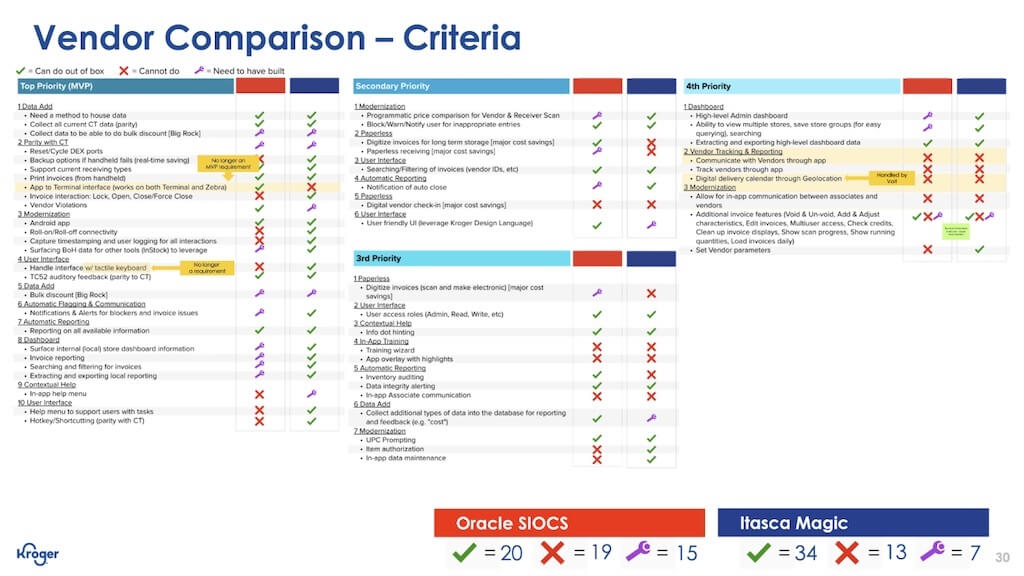
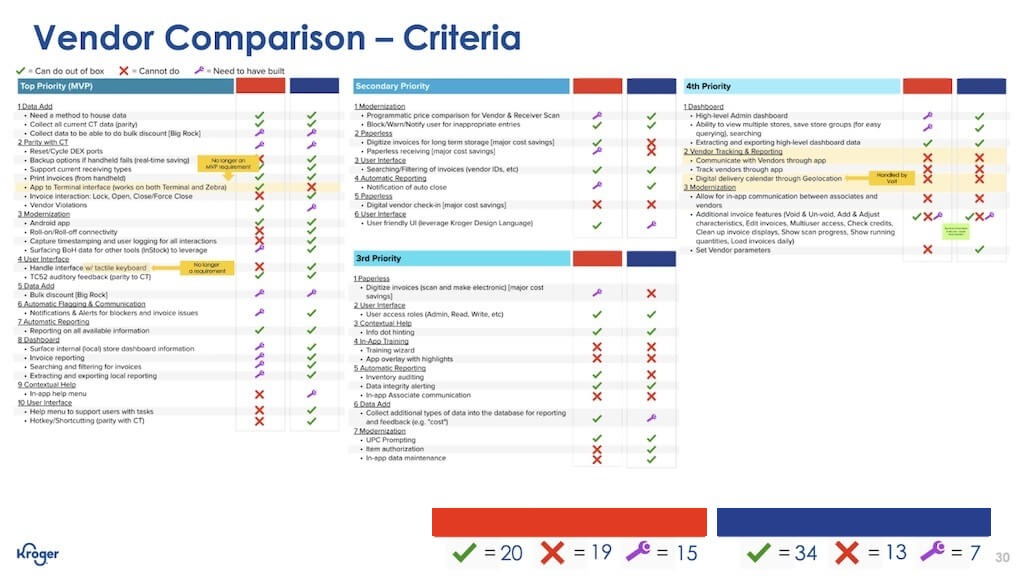
Kroger case study copy fixes, timeline, and vendor-name redaction; small am-ui/CHIRP/ACP copy edits
- Kroger: corrected timeline/confidence narrative, added a project timeline
  component (ported from case-study-narrative), reworked Process/Findings for
  a clearer "why" narrative and personal ownership of the design work, added
  a real product-requirements image and usability-test video, moved images
  to match the sections they support, and redacted vendor names from the
  vendor-comparison image and text per confidentiality preference.
- am-ui: linked first AtoMagic mention to its demo video.
- CHIRP Radio, anonymous-client-portal: small copy corrections.
- Added a root CLAUDE.md with a Ship It Config section (no CI/test suite
  exists for this static Jekyll site; documents the YAML+build gate used).

Claude-Session: https://claude.ai/code/session_01DbjEwkj62CzvrQenzVAbEi

Changed region(s): [[0.4062, 0.875, 0.9688, 0.9375]]

diff --git a/_layouts/case-study-template.html b/_layouts/case-study-template.html
@@ -51,6 +51,12 @@
         <div class="flex-two-col">
           <div class="col-left flex-third">
             <p>{{ page.overview }}</p>
+            {% if page.overview-pull-quote %}
+            <blockquote class="pull-quote">&ldquo;{{ page.overview-pull-quote }}&rdquo;<cite>{{ page.overview-pull-quote-attribution | default: "Ryan Wilson" }}</cite></blockquote>
+            {% endif %}
+            {% if page.overview-para2 %}
+            <p>{{ page.overview-para2 }}</p>
+            {% endif %}
             {% if page.stat-number %}
             <div class="stat-callout"><span class="stat-number">{{ page.stat-number }}</span><span class="stat-label">{{ page.stat-label }}</span></div>
             {% endif %}
@@ -65,6 +71,19 @@
           </div>
         </div>
       </section>
+      {% if page.timeline %}
+      <div class="cs-timeline">
+        <div class="tl-grid" style="grid-template-columns: {% for milestone in page.timeline %}{% assign tl_idx = forloop.index0 | plus: 1 %}{% if forloop.last %}{% assign tl_next = 100 %}{% else %}{% assign tl_next = page.timeline[tl_idx].percent %}{% endif %}{% assign tl_weight = tl_next | minus: milestone.percent %}{% if tl_weight < 1 %}{% assign tl_weight = 1 %}{% endif %}{{ tl_weight }}fr {% endfor %};">
+          {% for milestone in page.timeline %}
+          <div class="tl-point">
+            <span class="tl-marker"></span>
+            <span class="tl-date">{{ milestone.date }}</span>
+            <span class="tl-label">{{ milestone.label }}</span>
+          </div>
+          {% endfor %}
+        </div>
+      </div>
+      {% endif %}
       <section>
         <h2>Approach</h2>
         <h3 class="subsection-title uppercase">Problem Statement</h3>
@@ -246,6 +265,33 @@
           {% if page.process-multistat-01-caption %}<p>{{ page.process-multistat-01-caption }}</p>{% endif %}
         </div>
         {% endif %}
+        {% if page.process-image01 and page.process-image02 and page.process-pair-01-02 %}
+        <div class="cs-figure-row">
+          <figure class="cs-figure-half no-crop">
+            <picture>
+              <source srcset="../../assets/images/portfolio-images/{{ page.process-webpimage01 }}" type="image/webp">
+              <img src="../../assets/images/portfolio-images/{{ page.process-image01 }}" alt="{{ page.process-caption01 }} example image for {{ page.project }}">
+            </picture>
+            <figcaption>{{ page.process-caption01 }}</figcaption>
+          </figure>
+          <figure class="cs-figure-half no-crop">
+            <picture>
+              <source srcset="../../assets/images/portfolio-images/{{ page.process-webpimage02 }}" type="image/webp">
+              <img src="../../assets/images/portfolio-images/{{ page.process-image02 }}" alt="{{ page.process-caption02 }} example image for {{ page.project }}">
+            </picture>
+            <figcaption>{{ page.process-caption02 }}</figcaption>
+          </figure>
+        </div>
+        {% if page.process-image03 %}
+        <figure class="cs-figure-full">
+          <picture>
+            <source srcset="../../assets/images/portfolio-images/{{ page.process-webpimage03 }}" type="image/webp">
+            <img src="../../assets/images/portfolio-images/{{ page.process-image03 }}" alt="{{ page.process-caption03 }} example image for {{ page.project }}">
+          </picture>
+          <figcaption>{{ page.process-caption03 }}</figcaption>
+        </figure>
+        {% endif %}
+        {% else %}
         {% if page.process-image01 %}
         <figure class="cs-figure-full">
           <picture>
@@ -292,6 +338,7 @@
         </figure>
         {% endif %}
         {% endif %}
+        {% endif %}
         {% if page.process-multistat-02 %}
         <div class="single-col">
           <div class="cs-stat-group">
@@ -321,6 +368,12 @@
           <figcaption>{{ page.process-caption05 }}</figcaption>
         </figure>
         {% endif %}
+        {% if page.process-video %}
+        <figure class="cs-figure-full">
+          <iframe src="https://www.youtube.com/embed/{{ page.process-video }}" title="{{ page.process-video-caption }}" frameborder="0" allow="accelerometer; autoplay; clipboard-write; encrypted-media; gyroscope; picture-in-picture; web-share" allowfullscreen></iframe>
+          <figcaption>{{ page.process-video-caption }}</figcaption>
+        </figure>
+        {% endif %}
         {% endunless %}
       </section>
       <section class="solution-section">
@@ -332,6 +385,30 @@
             <p>{{ page.solutions }}</p>
           {% if page.pull-quote %}
             <blockquote class="pull-quote">&ldquo;{{ page.pull-quote }}&rdquo;<cite>{{ page.pull-quote-attribution | default: "Ryan Wilson" }}</cite></blockquote>
+          {% endif %}
+          {% if page.solutions-para2 %}
+            <p>{{ page.solutions-para2 }}</p>
+          {% endif %}
+          {% if page.solutions-continued %}
+            <p>{{ page.solutions-continued }}</p>
+          {% endif %}
+          {% if page.solution-image01 and page.solution-image02 %}
+            <div class="cs-figure-row">
+              <figure class="cs-figure-half">
+                <picture>
+                  <source srcset="../../assets/images/portfolio-images/{{ page.solution-webpimage01 }}" type="image/webp">
+                  <img src="../../assets/images/portfolio-images/{{ page.solution-image01 }}" alt="{{ page.solution-caption01 }} example image for {{ page.project }}">
+                </picture>
+                <figcaption>{{ page.solution-caption01 }}</figcaption>
+              </figure>
+              <figure class="cs-figure-half">
+                <picture>
+                  <source srcset="../../assets/images/portfolio-images/{{ page.solution-webpimage02 }}" type="image/webp">
+                  <img src="../../assets/images/portfolio-images/{{ page.solution-image02 }}" alt="{{ page.solution-caption02 }} example image for {{ page.project }}">
+                </picture>
+                <figcaption>{{ page.solution-caption02 }}</figcaption>
+              </figure>
+            </div>
           {% endif %}
           {% if page.prototype-orientation == 'vertical' %}
             </div>

diff --git a/assets/css/case-brand.css b/assets/css/case-brand.css
@@ -340,6 +340,9 @@
     background-color: #21409A;
     box-shadow: -50vw 0 0 0 #21409A, 50vw 0 0 0 #21409A, -25vw 0 0 0 #21409A, 25vw 0 0 0 #21409A;
   }
+  .tl-marker {
+    border-color: #21409A;
+  }
   section:nth-of-type(2), section:nth-of-type(4) {
     background-color: #f0f6fc;
     padding: 100px 0;

diff --git a/_portfolio/kroger.md b/_portfolio/kroger.md
@@ -17,24 +17,44 @@ previous-cs-link: vehicle-test-floor-discovery
 next-cs-title: Yum! Brands MMT
 next-cs-link: yum
 phases: Discovery
-overview: My focus for this project was to make a recommendation for replacing a piece of 35+-year-old software called ChainTrack. ChainTrack is used across the enterprise for receiving certain types of products through the docks at Kroger stores, a process called Direct Store Delivery, or DSD, where products like Coke, Fritos, and alcohol come into the store. Kroger DSD intakes ~28 Billion dollars of products using this software. <br><br>This was a three-person team, a Product Manager, a Tech Lead, and myself, tasked with researching and understanding enough to recommend building our own or purchasing a replacement product. The research and recommendation work was heavily driven by me.
-stat-number: $28B
-stat-label: Products intake through DSD Receiving, yearly
+overview: My focus for this project was to make a recommendation for replacing a piece of 35+-year-old software called ChainTrack. ChainTrack is used across the enterprise for receiving certain types of products through the docks at Kroger stores, a process called Direct Store Delivery, or DSD, where products like Coke, Fritos, and alcohol come into the store. Kroger DSD intakes ~28 billion dollars of products using this software.
+overview-pull-quote: We've never seen a proposal this thoroughly researched.
+overview-pull-quote-attribution: Panel of Kroger VPs
+overview-para2: This was a three-person team&colon; a Product Manager, a Tech Lead, and myself, tasked with researching and understanding enough to recommend building our own or purchasing a replacement product. I drove the research and recommendation work.
 goals: <ul><li>To understand and document the existing DSD Receiving process and use of the ChainTrack product</li><li>Run observations and workshops with my team, stakeholders, and software vendors to collect information</li><li>To conceptualize what would be needed in a replacement product</li><li>Evaluate competitor products that could function as a replacement</li><li>Create and visualize concepts like feature timelines, product flows, existing state click-through prototypes, and other deliverables to share with others and support a build or buy decision</li><li>Support change management</li></ul>
 role: Product Designer
 scope: Eight weeks (team of three, made up of a Product Manager, a Tech Lead, and myself)
 tools: Axure, Sketch, Documentation
-problemstatement: The problem I needed to solve was how to replace an antiquated piece of technology with something more robust. One of the business requirements was that the replacement product needs to be able to exist on TC-52 Zebra devices so that Kroger is only maintaining a single device type across all stores.<br><br>The next iteration of this product must:<ul><li> Make data more accessible</li><li>Reduce printing and invoice storage costs</li><li>Support DSD Receivers to intake products at a lower cost</li></ul>
+timeline:
+  - date: Week 1
+    label: Kickoff&colon; began researching the DSD process and identifying users
+    percent: 0
+  - date: Week 3
+    label: Reached ~85% confidence in the buy recommendation
+    percent: 29
+  - date: Week 5
+    label: Kept researching, deepening the vendor evaluation and requirements record
+    percent: 57
+  - date: Week 8
+    label: Presented to Kroger VPs, who approved the recommendation before the deck finished
+    percent: 100
+problemstatement: The problem I needed to solve was how to replace an antiquated piece of technology with something more robust. One business requirement was that the replacement product must work on TC-52 Zebra devices so Kroger maintains a single device type across all stores.<br><br>The next iteration of this product must:<ul><li> Make data more accessible</li><li>Reduce printing and invoice storage costs</li><li>Support DSD Receivers to intake products at a lower cost</li></ul>
 methods: <ul><li>Created and maintained a source of truth repository for documentation</li><li>Captured a project glossary</li><li>Created and assessed a survey sent to users, trainers, & managers</li><li>Performed multiple in-store user observations</li><li>Developed personas</li><li>Wrote scenarios and user stories</li></ul>
-process: Going into the project, I had no experience with product receiving or the DSD process. I began the project by researching the DSD process to understand the DSD Receiver and identify secondary users. Through a survey, I captured the needs and pain points of users, trainers, and managers within the DSD space.<br><br>I led my team in in-store observations to see DSD Receivers' intake products and interact with the ChainTrack product in their environment.
-findings: Once I understood ChainTrack and the DSD process, I ran a workshop with my team to vet the order of priority for the business and user requirements for a build or buy replacement recommendation. I created a phased feature timeline and a vendor report card from this activity. Items we listed as Top Priority were parity with ChainTrack, ways to improve the user experience, and solve business goals that cannot be achieved with the current product. I used the vendor report card in meetings with software vendors to assess their software solutions against Kroger's requirements. 
+process: With no prior experience in product receiving or the DSD process, I had to build that ground-level understanding myself before I could design anything&colon; researching the DSD process, surveying users, trainers, and managers for their needs and pain points, then leading the team through in-store observations of DSD Receivers working directly with ChainTrack.<br><br>I turned that research into two product flows&colon; one mapping how DSD Receivers actually worked within ChainTrack today, and a second mapping what an in-house replacement would need to do instead. The second flow wasn't just about scoping a possible build, it set the criteria I used to judge off-the-shelf alternatives against.<br><br>From there, I took the recommended vendor's product from sketches through wireframes to an InVision click-through prototype myself, since the team didn't have hands-on access to the real thing yet, then mocked up the specific updates that product would need to fit Kroger's workflow, giving stakeholders something concrete to react to instead of a hypothetical.
+findings: Once I understood ChainTrack and the DSD process, I ran a workshop with my team to vet the order of priority for the business and user requirements for a build or buy replacement recommendation. From this activity, I created a product timeline, broken into four priority tiers&colon; MVP, Secondary, Third, and Fourth, and a vendor report card scoring each option as can-do-out-of-the-box, cannot-do, or needs-to-be-built. We listed parity with ChainTrack, user experience improvements, and solving business goals that the current product can't meet as top priorities. I used the vendor report card in meetings with software vendors to assess their software solutions against Kroger's requirements. That scoring surfaced real tradeoffs&colon; going fully paperless would have been a major cost saving, but state-to-state alcohol retention laws made it more complicated than a simple digitization effort, and a fully-branded, "skinned" interface got pushed down my own priority list, since matching Kroger's visual brand wouldn't have made the product more usable.<br><br>I built four personas from that research&colon; DSD Receiver, Grocery Manager, Admin, and Systems Operations. Systems Operations' own pain points summed up the core problem&colon; ChainTrack was antiquated, difficult to modify, and needed the vendor on-site just to test a fix.<br><br>We also ran usability testing in a secure environment inside a Kroger store with real DSD Receivers, timing how long intake took on ChainTrack against the recommended replacement product head-to-head.
 processlist: <ul><li>User Observations</li><li>Product Flows</li><li>Sketches</li><li>Wireframes</li><li>Prototypes</li><li>Usability Testing</li></ul>
-solutions: Not only was there a clear path for which company to move forwards with, but the software provider we recommended voiced interest in finding solutions to many of our requirements, asked for clarity around others, and offered to build the solutions we needed throughout our partnership.<br> <br>It was obvious to the team and me that there was no clear differentiator in building our own solution. Additionally, over at least five years, partnering with the vendor would be less expensive and more rewarding for Kroger and the users than if we were to build the product ourselves.
-pull-quote: If Kroger is going to build a product itself, there needs to be a clear industry differentiator.
-outcomes: I supported the creation of my team's presentation deck. There were six slides to present and ~150 slides representing my research in the appendix. We presented our findings to a panel of Kroger VPs. Our buy recommendation was approved by the VPs of Kroger Digital Technologies, noting the amount of research and documentation I provided trust in our decision.
-achievements: <ul><li>My work for this project provided a wealth of research that supported our recommendation to buy a third-party replacement</li> <li>I advocated for the UX process throughout the project</li> <li>I facilitated workshops with my team and cross-teams to capture information and helped to align our understanding</li> <li>I worked alongside the software provider to ideate and iterate through product flows and prototypes of their product which vetted the product, called out errors, and highlighted gaps in product flow</li></ul>
-takeaways: If I could do this project again, I would have pushed harder to shorten the eight-week timeline to four weeks. The team had ~85% confidence in our direction by the end of week three. The remaining five weeks allowed us to meet with more users, capture additional information, and iterate through requirements. This extra time was beneficial in adding to the materials that helped to green-light the project. Still, a shorter timeline would have allowed the contract process to begin sooner, allowing the team to move to the next project phase more quickly.
-learnings: This project introduced me to a new industry, Direct Store Delivery. Going into the project without prior knowledge helped me approach solutions from a fresh perspective while still applying my understanding of the UX process. <br><br>Another lesson I learned is that, regardless of the size of the business, the industry, type of team, or length of time co-workers have worked in SaaS, I still find that many people don't understand the role of a UXD or PD. What I like about the constant advocacy approach is that there is always room to help others learn and to surprise team members through my transparent process, helping to change the mindset that "designer" = "visual design".
+solutions: Not only was there a clear path on which company to move forward with, but the software provider we recommended also expressed interest in meeting many of our requirements, asked for clarity on others, and offered to build the solutions we needed throughout our partnership.<br> <br>It was obvious to the team and me that there was no clear differentiator in building our own solution. Additionally, over at least five years, partnering with the vendor would be less expensive and more rewarding for Kroger and the users than if we were to build the product ourselves.
+solutions-continued: Once the recommendation was approved, I stayed engaged directly with the vendor, mapping our requirements against their existing product and calling out the gaps a Kroger implementation would need filled. That included working through detailed requirements together and aligning on a shared path forward, so the partnership started from a specific, agreed-upon plan instead of a general intent to work together.
+solution-webpimage01: kroger-itasca-click-through.webp
+solution-image01: kroger-itasca-click-through.jpg
+solution-caption01: InVision prototype
+solution-webpimage02: kroger-itasca ui updates.webp
+solution-image02: kroger-itasca ui updates.jpg
+solution-caption02: Proposed updates for MVP
+outcomes: I supported the creation of my team's presentation deck&colon; six slides to present, backed by an appendix of more than 250 slides of my research. We presented our findings to a panel of Kroger VPs, who approved our buy recommendation before we'd even finished presenting it, telling us&colon; "We've never seen a proposal this thoroughly researched."
+achievements: <ul><li>My work for this project provided a wealth of research that supported our recommendation to buy a third-party replacement</li> <li>I advocated for the UX process throughout the project, including a training presentation to Kroger's own Product Design group on the flow-mapping and prototyping approach used here, a method many of them hadn't encountered before</li> <li>I facilitated workshops with my team and cross-teams to capture information and align our understanding</li> <li>Turned the approved recommendation into an actionable plan by mapping requirements directly with the vendor and closing the gaps a Kroger implementation would need filled</li></ul>
+takeaways: The team had ~85% confidence in our direction by the end of week three. The remaining five weeks weren't idle, they went into meeting with more users, capturing additional information, and iterating through requirements, building the deeper research record that helped get the recommendation approved so quickly once we presented it. Still, if I could do this project again, I'd push harder to shorten the eight-week timeline to four weeks&colon; the direction was already right early on, and a shorter timeline would have let the contract process begin sooner, moving the team into the next phase more quickly.
+learnings: This project introduced me to a new industry, Direct Store Delivery. Going into the project without prior knowledge helped me approach solutions from a fresh perspective while still applying my understanding of the UX process. <br><br>Another lesson I learned is that, regardless of business size, industry, team type, or how long co-workers have worked in SaaS, many people still don't understand the role of a User Experience Designer or Product Designer. What I like about the constant advocacy approach is that there is always room to help others learn and to surprise team members through my transparent process, helping to change the mindset that "designer" = "visual design".
 webpcollection-image: kroger-logo.webp
 collection-image: kroger-logo.jpg
 hero-image-webp: kroger-hero.webp
@@ -49,27 +69,21 @@ approach-caption02: Build replacement product flow
 approach-webpimage03: kroger-bvb-phases.webp
 approach-image03: kroger-bvb-phases.jpg
 approach-caption03: Proposed build/roll-out phases
-approach-webpimage04: kroger-vendor-comparison.webp
-approach-image04: kroger-vendor-comparison.jpg
-approach-caption04: Vendor report card
 approach-webpimage05: kroger-sort2.webp
 approach-image05: kroger-sort2.jpg
 approach-caption05: Survey feedback card sort/grouping
+process-pair-01-02: true
 process-webpimage01: kroger-stories.webp
 process-image01: kroger-stories.jpg
 process-caption01: User stories
 process-webpimage02: kroger-vendor-user-flow.webp
 process-image02: kroger-vendor-user-flow.jpg
 process-caption02: Product flow concept sketches
-process-webpimage03: kroger-itasca-click-through.webp
-process-image03: kroger-itasca-click-through.jpg
-process-caption03: InVision prototype
-process-webpimage04: kroger-itasca ui updates.webp
-process-image04: kroger-itasca ui updates.jpg
-process-caption04: Proposed updates for MVP
-process-webpimage05: kroger-user-flow-presentation.webp
-process-image05: kroger-user-flow-presentation.jpg
-process-caption05: Product flow presentation
+process-webpimage03: kroger-vendor-comparison.webp
+process-image03: kroger-vendor-comparison.jpg
+process-caption03: Vendor report card&colon; every requirement across all four priority tiers, scored against what the recommended product could do out of the box, couldn't do, or would need built
+process-video: E9ZethbfO68
+process-video-caption: Usability testing in a secure Kroger environment, comparing intake time on ChainTrack against the recommended replacement product
 prototype-orientation: horizontal
 prototype-type: 
 prototype-webp: 

diff --git a/_portfolio/chirp-radio.md b/_portfolio/chirp-radio.md
@@ -24,7 +24,7 @@ scope: One year (research and rebuild), primarily myself with additional technic
 tools: Figma, React, Payload CMS, Postgres, Capacitor, Docker, Google Cloud Run, Cloudflare Pages, Claude
 problemstatement: CHIRP's website, CMS, and mobile apps were built at different times by different people, without much input from leadership or from what listeners actually needed. The mobile app code specifically came from a now-defunct app company, handed off since then to a separate support company and, by the team's own description, held together with duct tape. The website, iOS app, and Android app existed as three separate codebases, so the same bug or feature often had to be built three different times. Updating the old CMS itself meant paying an outside vendor, so even routine changes came with a cost and a wait.<br><br>None of the pieces shared data or a branding concept&colon; a listener's saved song only existed on whichever platform they'd saved it on, and there was no dark mode. Listeners had no way to favorite a DJ or get notified when they went on air, especially for unscheduled shows, and the DJ schedule itself was a dense, table-style grid with no way to search it or see who was on now. Sixteen years of station history sat inside that same CMS, hard for volunteers to use, with no clear path to carry it forward. The new CMS had to be simple enough for CHIRP's non-technical volunteers to run themselves, not something that came with an ongoing bill.
 methods: <ul><li>Oversaw the project from start to finish</li><li>Met directly with CHIRP's volunteers and listeners to find where the existing tools broke down, then ran usability testing on the web and mobile interfaces, iterating and retesting as the designs firmed up</li><li>Designed a unified data model connecting the website and both mobile apps for the first time, so a song saved to a listener's collection or a light/dark mode preference follows them across every device</li><li>Built the entire production React component library myself with Claude Code, with accessibility and responsiveness built in from day one instead of retrofitted, then used Figma's MCP integration to align the coded components to the layouts and templates already designed</li><li>Treated individual volunteers' requests as their own input, not settled team consensus, and confirmed scope with the broader team before starting non-trivial work</li></ul>
-process: CHIRP had a print brand guide but nothing built for digital, so I put together recommendations for a digital adjustment&colon; fleshing out their color palette, adding type variations, and working with the team on font choices from Google Fonts. Those calls happened in bi-weekly sprint syncs, where CHIRP reviewed options and decided together, not something I handed down.<br><br>The navigation needed the same rework&colon; the old site ran almost entirely on dropdown select menus, which gave every page a bolted-on feel. I regrouped how pages were organized and gave listeners other ways to navigate besides a select menu. Low- and high-fidelity mockups went through the same rhythm&colon; Shawn and two other CHIRP stakeholders, Tony and Kevin, reviewed and discussed each round until we reached alignment, not a single sign-off at the end.<br><br>That same rigor carried into the build and testing. I built the entire component library, more than 70 components in Storybook, the same tokenized, documented discipline behind <a href="../am-ui">am-ui</a>, then built the front end for the website and both mobile apps myself, including native Android Auto support alongside CarPlay. Before launch, I ran alpha testing internally with Callibrity team members across whatever devices and platforms were available, fixed what that found, then ran two weeks of beta testing with a group of CHIRP volunteers and DJs and fixed what surfaced there too. That two-round process is why so few patches were needed after launch.
+process: CHIRP had a print brand guide but nothing built for digital, so I put together recommendations for a digital adjustment&colon; fleshing out their color palette, adding type variations, and working with the team on font choices from Google Fonts. Those calls happened in bi-weekly sprint syncs, where CHIRP reviewed options and decided together, not something I handed down.<br><br>The navigation needed the same rework&colon; the old site ran almost entirely on dropdown select menus, which gave every page a bolted-on feel. I regrouped how pages were organized and gave listeners other ways to navigate besides a select menu. Low- and high-fidelity mockups went through the same rhythm&colon; Shawn and two other CHIRP stakeholders, Tony and Kevin, reviewed and discussed each round until we reached alignment, not a single sign-off at the end.<br><br>That same rigor carried into the build and testing. I built the entire component library, more than 70 components in Storybook, the same tokenized, documented discipline behind <a href="../am-ui">am-ui</a>, then built the front end for the website and both mobile apps myself, including native Android Auto support alongside CarPlay. Before launch, I ran alpha testing internally with Callibrity team members across whatever devices and platforms were available, fixed what was found, then ran two weeks of beta testing with a group of CHIRP volunteers and DJs and fixed what surfaced there too. That two-round process is why so few patches were needed after launch.
 findings: CapacitorJS held up well for wrapping one build into iOS and Android apps, and I'd use it again, but getting the apps to feel genuinely native still took real custom iOS and Android code, not just what the wrapper provided out of the box.
 processlist: <ul><li>Volunteer & Listener Interviews</li><li>Style Guide Refresh, Product Flows & Wireframes</li><li>Low & High-Fidelity Mockups with Usability Testing</li><li>Figma Design System & Storybook Component Library</li><li>Unified Data Model & Self-Service CMS Design</li><li>Content Migration (16 Years)</li><li>Full Front-End Build (Web, iOS, Android, Android Auto)</li><li>Testing, Launch & Bug Fixes</li></ul>
 solutions: The site and both apps stream CHIRP live, with Now Playing and Recently Played pulled from the station's audio feed in real time. One React codebase, wrapped with Capacitor, now powers the website and both the iOS and Android apps, so a fix or feature ships everywhere at once instead of being built three separate times. The new site and apps share one Payload CMS on top of Postgres, so CHIRP's team edits content once and it's correct everywhere, on the website and on both mobile apps, with role-based permissions scoped to each person's job. Volunteers and DJs also got their own site login, so a DJ's bio, photo, or contact information stays current without going through someone else to make the change. A single audio service now owns playback across the apps instead of every surface managing its own player, which had been the source of recurring CarPlay bugs.<br><br>Saved songs and light/dark mode preferences now live on a listener's account instead of a single device, so they follow across the website and both apps. Listeners can favorite a DJ and get a push notification when they go on air, even for unscheduled shows, and the DJ schedule itself moved from a dense table to a tabbed day view that opens on today, highlights whoever's on now, and can be searched by name. Logged-in listeners can also request a song directly, on the website or in the app, something CHIRP never had before.<br><br>All 16 years of CHIRP's content moved over from the old ExpressionEngine database, and checkout moved off PayPal onto Stripe. None of it depends on me being available after launch to keep it running. As a listener myself, I'm proud of what I built, and I use it every week to listen to my favorite DJs, at home and in the car.
@@ -40,7 +40,7 @@ process-inline-webpimage: chirp-sketches.webp
 process-inline-caption: Early hand-drawn wireframe sketches for the homepage layout, navigation, and media player placement
 achievements: <ul><li>Led product and technical direction for a from-scratch rebuild of a nonprofit's entire digital presence</li><li>Designed the shared data model that finally connected CHIRP's website and mobile apps</li><li>Replaced three separate platform codebases with one shared React and Capacitor codebase powering the website and both mobile apps</li><li>Kept self-service simplicity for CHIRP's volunteers central to every scoping decision, not just a line in the brief</li></ul>
 takeaways: If I did this again, I'd bring AI into the process from the very start, not just the build&colon; using it to move faster, track findings and requirements more accurately, and go from product flow to wireframe to mockup to prototype faster, then build out the component library faster too. I've carried that into every project since, the same approach I used on <a href="../anonymous-client-portal">a client portal built in 13 weeks</a>.
-learnings: Building CHIRP taught me a hard lesson about React&colon; a site that depends on JavaScript to render is just a blank white page for anyone without it, screen reader users included. One of the first pieces of post-launch feedback was a listener whose screen reader wasn't picking up any content, which I fixed by building a static version of the site with Eleventy that redirects to text.chirpradio.org whenever JavaScript isn't available. I've tested with JavaScript disabled on every project since.<br><br>The gap between that early research and the actual build also changed how I think about using AI well&colon; by the time development started, AI coding tools had matured enough that building the entire component library myself with Claude Code was faster and more thorough than it would have been on the original timeline, accessibility and responsiveness built in from day one instead of retrofitted.
+learnings: Building CHIRP taught me a hard lesson about React&colon; a site that depends on JavaScript to render is just a blank white page for anyone without it, screen reader users included. One of the first pieces of post-launch feedback was a listener whose screen reader wasn't picking up any content, which I fixed by building a static version of the site with Eleventy that redirects to text.chirpradio.org whenever JavaScript isn't available. I've tested with JavaScript disabled on every project since.<br><br>The gap between that early research and the actual build also changed how I think about using AI as well&colon; by the time development started, AI coding tools had matured enough that building the entire component library myself with Claude Code was faster and more thorough than it would have been on the original timeline, with accessibility and responsiveness built in from day one instead of retrofitted.
 webpcollection-image: chirp-logo.webp
 collection-image: chirp-logo.jpg
 hero-image-webp: chirp-hero-mobile.webp

diff --git a/_portfolio/anonymous-client-portal.md b/_portfolio/anonymous-client-portal.md
@@ -27,7 +27,7 @@ scope: 13 weeks to a fixed pilot date; team of three, a product consultant, a le
 tools: Figma, Storybook, GitHub, Claude
 problemstatement: The firm needed a client experience, not a document repository. Every advisor filed and named materials their own way, so two clients of the same firm could have completely different experiences depending on who staffed them. The firm also owned access-control for every external user of every client, and only found out someone had left a client organization if somebody happened to mention it. Prospects were asking to see the portal and marketing wanted to show it, but what existed didn't reflect the quality of the firm behind it.
 methods: <ul><li>Ran a pre-contract workshop and wrote an engagement brief as a starting hypothesis, not a validated plan</li><li>Built the practice's now-standard AI classification as we went&colon; green-zone work AI could transcribe or format from something a person already decided, red-zone work only a person could originate, with a hard constraint written into 10 of the 19 skills where getting it wrong would matter</li><li>Worked out the pipeline live, under deadline pressure&colon; a hand sketch became a native flow diagram, a validated flow became a wireframe, a wireframe became a click-through prototype, each step AI-produced from a human-confirmed input instead of invented</li><li>Built a governed design-token system from the client's brand refresh, then a 59-component, 137-story Storybook library against it in about three days, and the entire production front end from that library in twelve hours</li><li>Set automated checks every piece of code had to pass before it could ship, tests, accessibility, and brand consistency among them, regardless of who or what wrote it, so a known class of bug could never ship twice</li><li>Ran continuous research across six functions at the client (advisors, operations, compliance, IT, marketing, research), not as a phase up front</li><li>Logged every substantive decision in the open, 92 in total, each naming the alternative that was ruled out and who made the call</li><li>Ran usability testing before launch, five role-based test plans, 46 scored tasks, every one run cold with no training first</li></ul>
-process: We treated the pre-contract brief as a hypothesis&colon; real conversations with the people who do the work refined the identity provider, the data architecture, the permission model, and the compliance retention rules well beyond what any brief could specify going in. That's how we found the real document structure&colon; the people who file and retrieve these documents every day pointed us toward a fixed set of centrally controlled categories with tags on top, instead of the folders everyone assumed going in.<br><br>Every one of those findings went into a decision log, in the open, naming the alternative that was ruled out and who made the call, so nothing got re-litigated once it was settled. That's what let research run the entire length of the engagement instead of stalling the build&colon; a finding didn't have to wait for a formal handoff to matter, it just had to get logged.
+process: We treated the pre-contract brief as a hypothesis&colon; real conversations with the people who do the work refined the identity provider, the data architecture, the permission model, and the compliance retention rules well beyond what any brief could specify going in. That's how we found the real document structure&colon; the people who file and retrieve these documents every day pointed us toward a fixed set of centrally controlled categories with tags on top, instead of the folders everyone assumed going in.<br><br>Every one of those findings went into a decision log, in the open, naming the alternative that was ruled out and who made the call, so nothing got re-litigated once it was settled. That's what allowed research to run the entire length of the engagement instead of stalling the build&colon; a finding didn't have to wait for a formal handoff to matter, it just had to get logged.
 process-pull-quote: AI went where its work could be verified. People went where it could not.
 process-continued: The AI pipeline we built during this engagement is what let the team move fast without cutting corners on judgment. A hand sketch became a native, editable flow diagram, a validated flow became a wireframe, a wireframe became a click-through prototype anyone could test before a line of production code existed. We built the components in Figma first, accurate down to the token, then pointed Claude Code at them&colon; the shared library and its Storybook documentation came together in about three days, then Claude Code turned that library into the entire production front end in twelve hours. What became the practice's standard for doing this kind of work came out of figuring it out here first.
 findings: The more the team learned about how the firm actually worked, the more complex the real problem turned out to be, and the AI pipeline was what let the team stay on top of that complexity without losing the delivery clock. The compliance team's retention rules in week two, a fixed-year SEC floor, a longer business-policy floor, and soft-delete only across all data, reshaped the data model days after the requirement was set, not weeks. An operations stakeholder's call that external "read" access had to include download moved from decision to shipped feature the same way.<br><br>The same speed showed up in the build itself&colon; the shared component library came together in about three days, and the entire production front end from that library in twelve hours. In usability testing, running every task cold with no training doubled each session as that participant's first-day onboarding, so a single session could produce both a usability finding and a productive user.

diff --git a/_portfolio/am-ui.md b/_portfolio/am-ui.md
@@ -18,7 +18,7 @@ previous-cs-link: callibrity-product-team
 next-cs-title: Bitovi UX Department
 next-cs-link: bitovi-ux-department
 phases: Discovery, Build
-overview: I've been chasing this since I started designing websites in the 1990s&colon; how to get a style guide out of the design tool without it drifting from the code. Twenty-five years of trying different tools and approaches taught me the idea was right long before I had what I needed to actually build it. AtoMagic, a Figma plug-in I built with a developer friend in 2021, got the closest of any of those attempts, proving the idea worked in usability testing, but it never shipped past that proof of concept. am-ui is the version that actually exists, a zero-dependency component library with vanilla HTML and CSS as the source of truth, a 1:1 Figma library, and a token bridge keeping the two in sync.
+overview: I've been chasing this since I started designing websites in the 1990s&colon; how to get a style guide out of the design tool without it drifting from the code. Twenty-five years of trying different tools and approaches taught me the idea was right long before I had what I needed to actually build it. <a href="https://youtu.be/UmTLQWT8ny8" target="_blank" rel="noopener">AtoMagic</a>, a Figma plug-in I built with a developer friend in 2021, got the closest of any of those attempts, proving the idea worked in usability testing, but it never shipped past that proof of concept. am-ui is the version that actually exists, a zero-dependency component library with vanilla HTML and CSS as the source of truth, a 1:1 Figma library, and a token bridge keeping the two in sync.
 goals: <ul><li>Give any new project a real, working set of design tool and coded components on day one</li><li>Keep Figma and code from drifting apart by making design tokens the single source of truth for both</li><li>Make every component convertible into React, Vue, or Angular without an army of manual re-implementation, by giving each one a machine-readable spec an AI can convert from reliably</li><li>Meet accessibility and responsive-design basics from the start, then document honestly what's actually been verified versus what hasn't</li></ul>
 role: Product Owner, Product Designer, Front-End Developer
 scope: One week to build (independent), ongoing maintenance

diff --git a/CLAUDE.md b/CLAUDE.md
@@ -1,0 +1,14 @@
+# ryangwilson.github.io
+
+Static Jekyll portfolio site. No JS test suite, no CI, no linter — Ruby/Jekyll only (see `Gemfile`).
+
+## Ship It Config
+
+- gate_commands:
+  1. Validate YAML front matter for every changed `_portfolio/*.md` file:
+     `python3 -c "import yaml; yaml.safe_load(open('<file>').read().split('---')[1])"`
+  2. `rm -rf _site/work/<affected-slug>` for each changed page, then `bundle exec jekyll build` — must complete with no Liquid/YAML errors.
+- gate_notes: There is no automated visual regression or content test. A clean build only proves the templates parse and pages generate — it does not prove a page reads or looks right. Always spot-check the actual rendered HTML (`grep`/`sed` on `_site/work/<slug>/index.html`) for the specific thing that changed, and when a shared file changes (`_layouts/case-study-template.html`, `_layouts/case-study-narrative.html`, `assets/css/case-brand.css`), rebuild and check at least one other page that uses the same field/class to confirm no regression.
+- run_myself: Run YAML validation and the Jekyll build myself for every content or template change, and check the rendered output before calling something done. Final visual sign-off (does it look/read right) is Ryan's call — offer to open the page in a browser rather than assuming a clean build means it's correct.
+- branch_rules: Always branch before pushing (see global `~/.claude/CLAUDE.md` — never push to `main`). Sync with `origin` before pushing.
+- pr_rules: No special conventions yet — standard PR title/description, attribution footer per session instructions.
